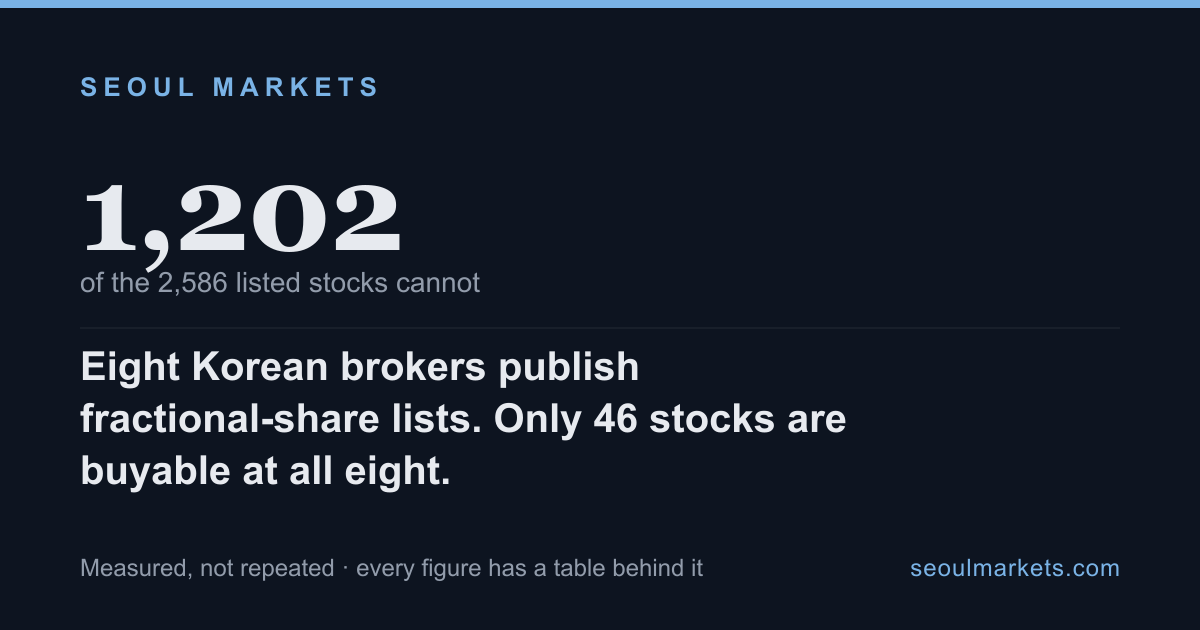
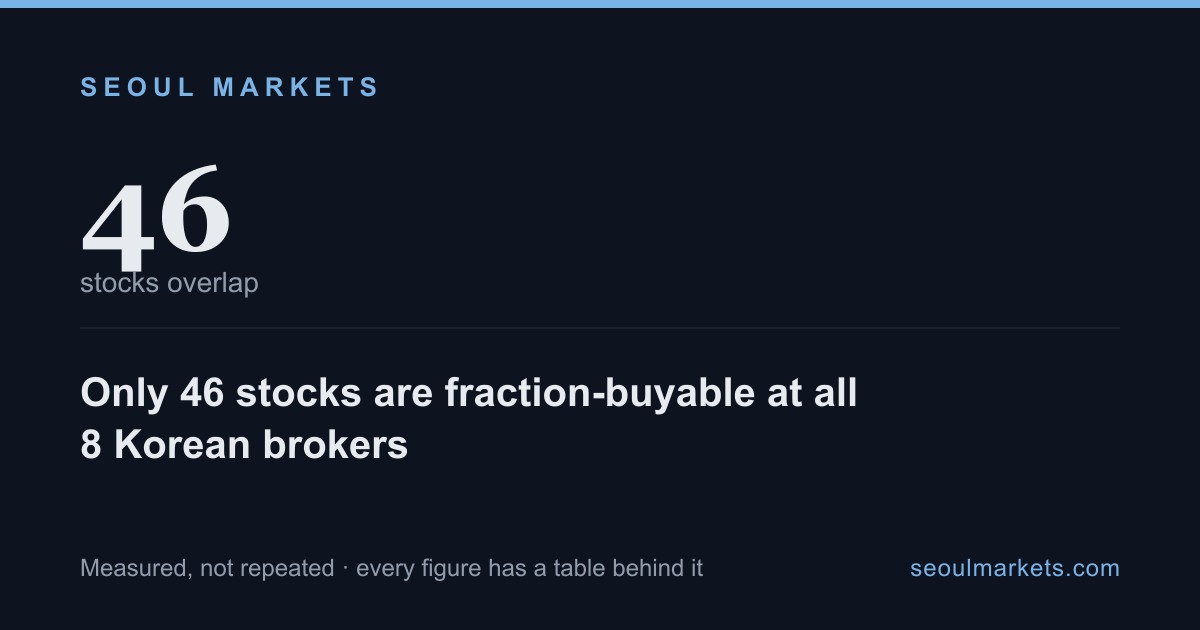
seo(ctr): 최대노출 2장 제목·설명 SERP 맞춤 — 클릭0 고침(5번 find-zero-click)
- kospi-2026-volatility-regime(45노출·클릭0): 제목 94→53자·설명 201→143자
- korea-fractional-shares-broker-lottery(25노출·클릭0): 제목 96→59자·설명 243→148자
- 답 감추지 않고 SERP 잘림만 해소(제목≤60·설명≤155). og카드 재생성
- 전값·재측정일(9/10) src/data/seoulmarkets-title-experiments.json 기록

Changed region(s): [[0.0617, 0.5429, 0.74, 0.7841], [0.0617, 0.2413, 0.4008, 0.4825]]

diff --git a/content/articles/korea-fractional-shares-broker-lottery.md b/content/articles/korea-fractional-shares-broker-lottery.md
@@ -1,6 +1,6 @@
 ---
-title: "Eight Korean brokers publish fractional-share lists. Only 46 stocks are buyable at all eight."
-dek: "The industry body posts each broker's list of stocks you can own in fractions. Put the eight side by side and the longest list turns out to be mostly sell-only — and 1,202 of the 2,586 listed stocks cannot be bought in fractions anywhere."
+title: "Only 46 stocks are fraction-buyable at all 8 Korean brokers"
+dek: "Each broker posts its own fractional-share list. Line up all eight and just 46 stocks overlap; 1,202 of 2,586 can't be bought in fractions anywhere."
 category: equities
 pubDate: 2026-08-07
 dataAsOf: 2026-02-27T00:00:00+09:00

diff --git a/content/articles/kospi-2026-volatility-regime.md b/content/articles/kospi-2026-volatility-regime.md
@@ -1,6 +1,6 @@
 ---
-title: "The KOSPI has moved more than 3% on 53 days this year. The five years before it managed 20."
-dek: "Korea's benchmark is down 31.3% from its 22 June peak and still up 48.5% on the year. The drawdown is the smaller story: the average daily move has tripled, and July alone had ten sessions above 5%."
+title: "KOSPI volatility exploded: 53 days above 3% this year"
+dek: "Korea's benchmark has had 53 days of 3%+ moves in 2026 — the five years before it managed 20. The average daily move has tripled. Not advice."
 category: equities
 pubDate: 2026-08-04
 dataAsOf: 2026-08-03T18:00:00+09:00
